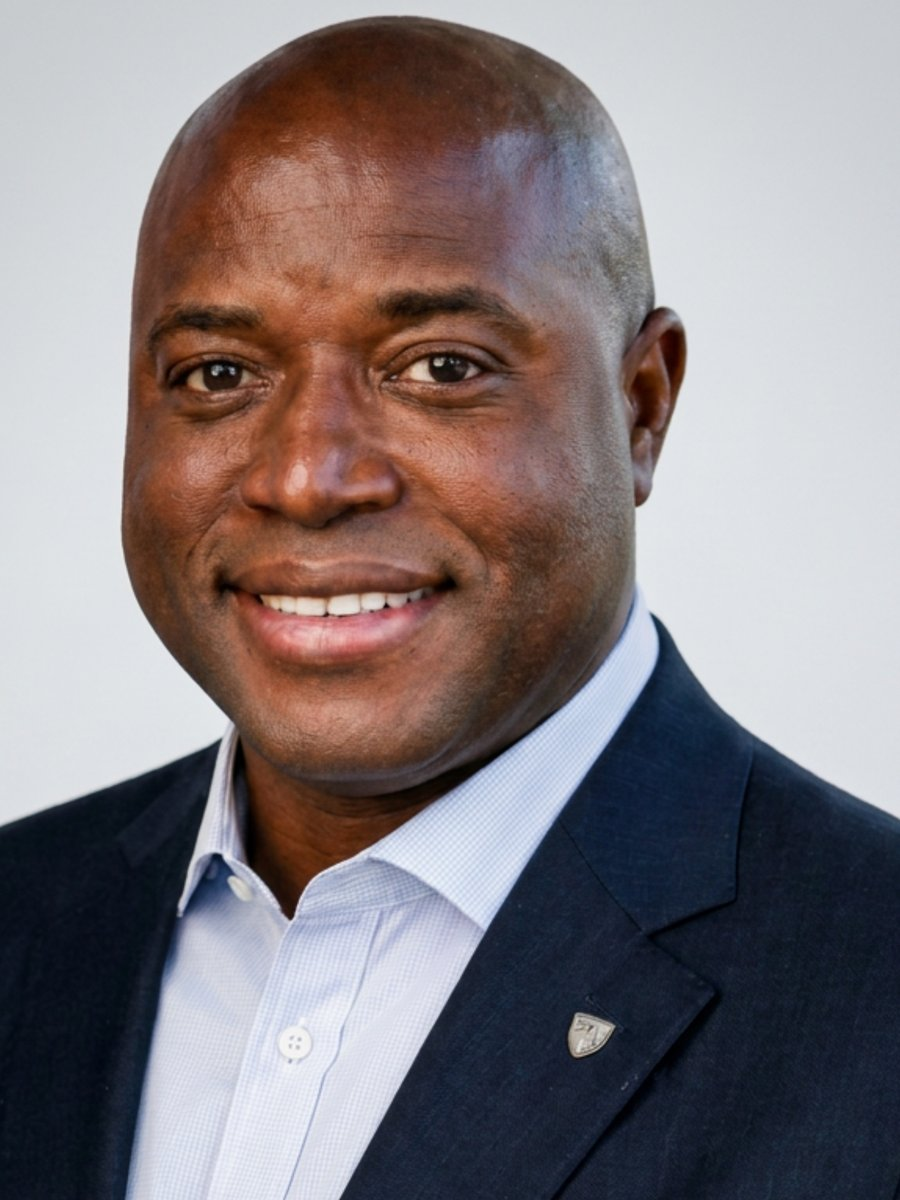
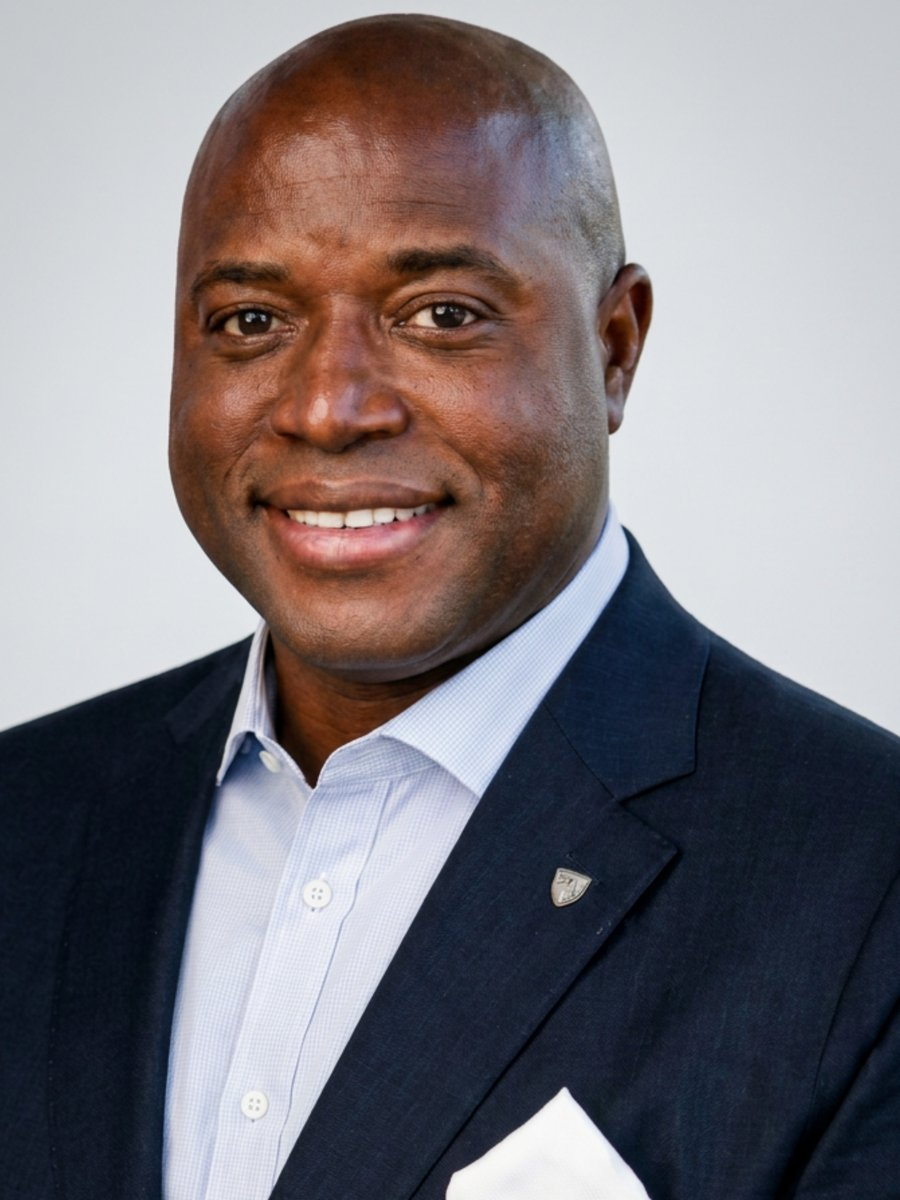
Loosen principal crop and add warm tint for backdrop harmony
- Crop widened to 2800x3733 from master-y=200 — head sits smaller in
  frame, more torso visible, comfortable breathing room above.
- CSS filter on .principal__image now adds 8% sepia plus subtle
  contrast/saturation, casting a warm tone over the cool studio grey
  so it integrates with the cream/gold editorial palette.

diff --git a/styles.css b/styles.css
@@ -713,7 +713,7 @@
     aspect-ratio: 3/4;
     object-fit: cover;
     object-position: center top;
-    filter: contrast(1.03);
+    filter: contrast(1.04) saturate(1.04) sepia(0.08);
   }
   .principal__content {}
   .principal__name {
